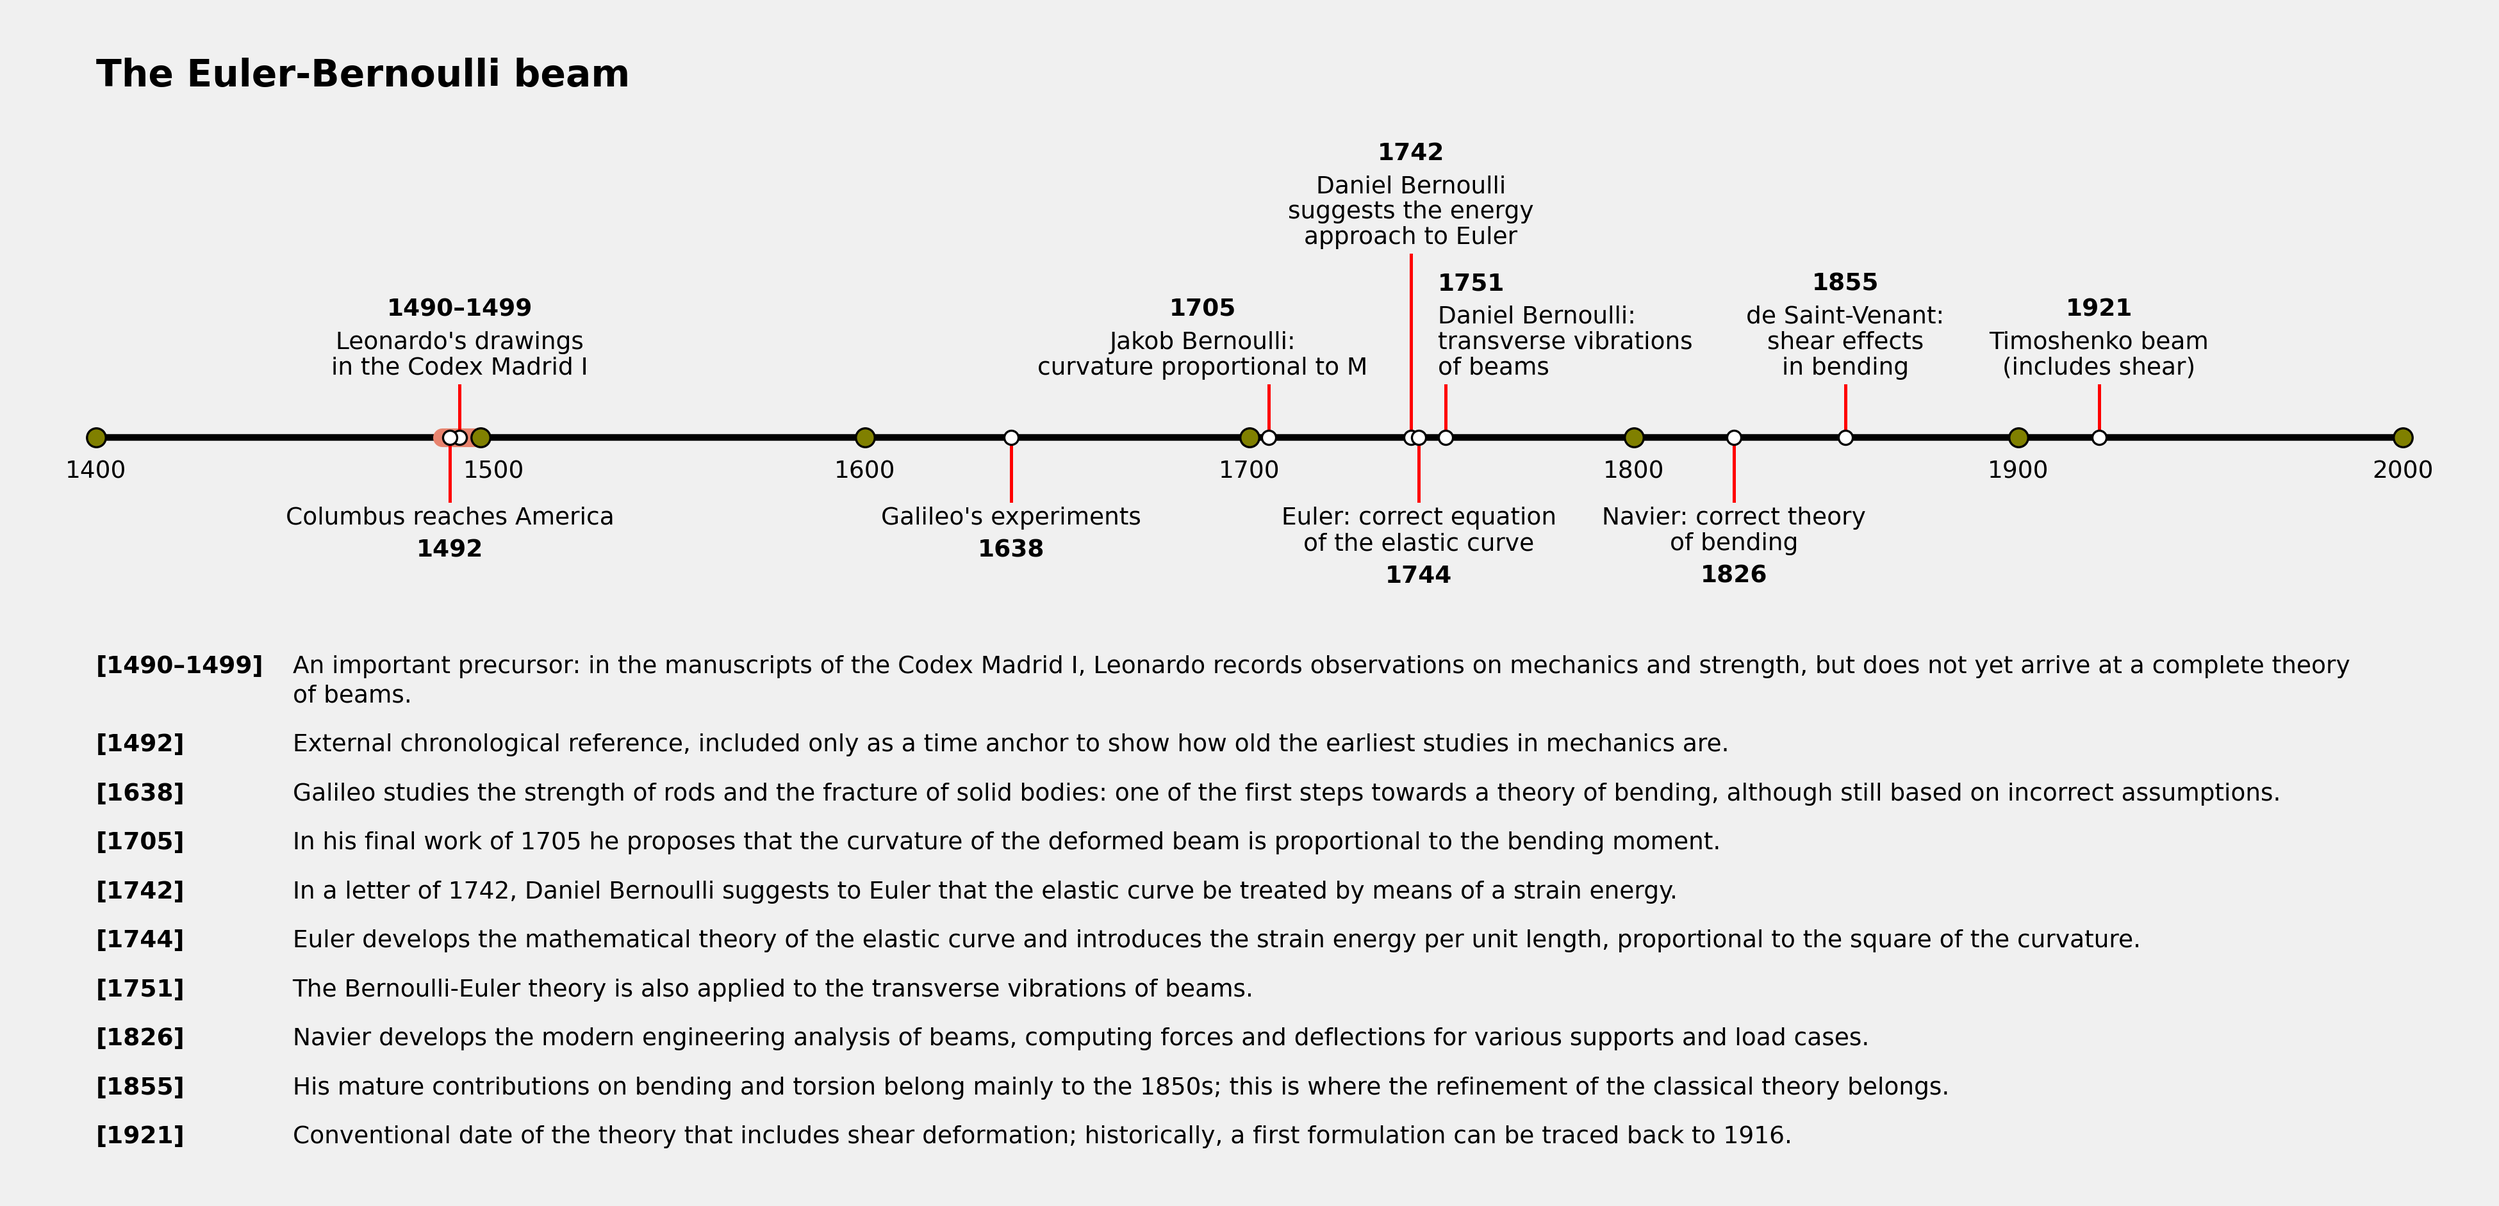
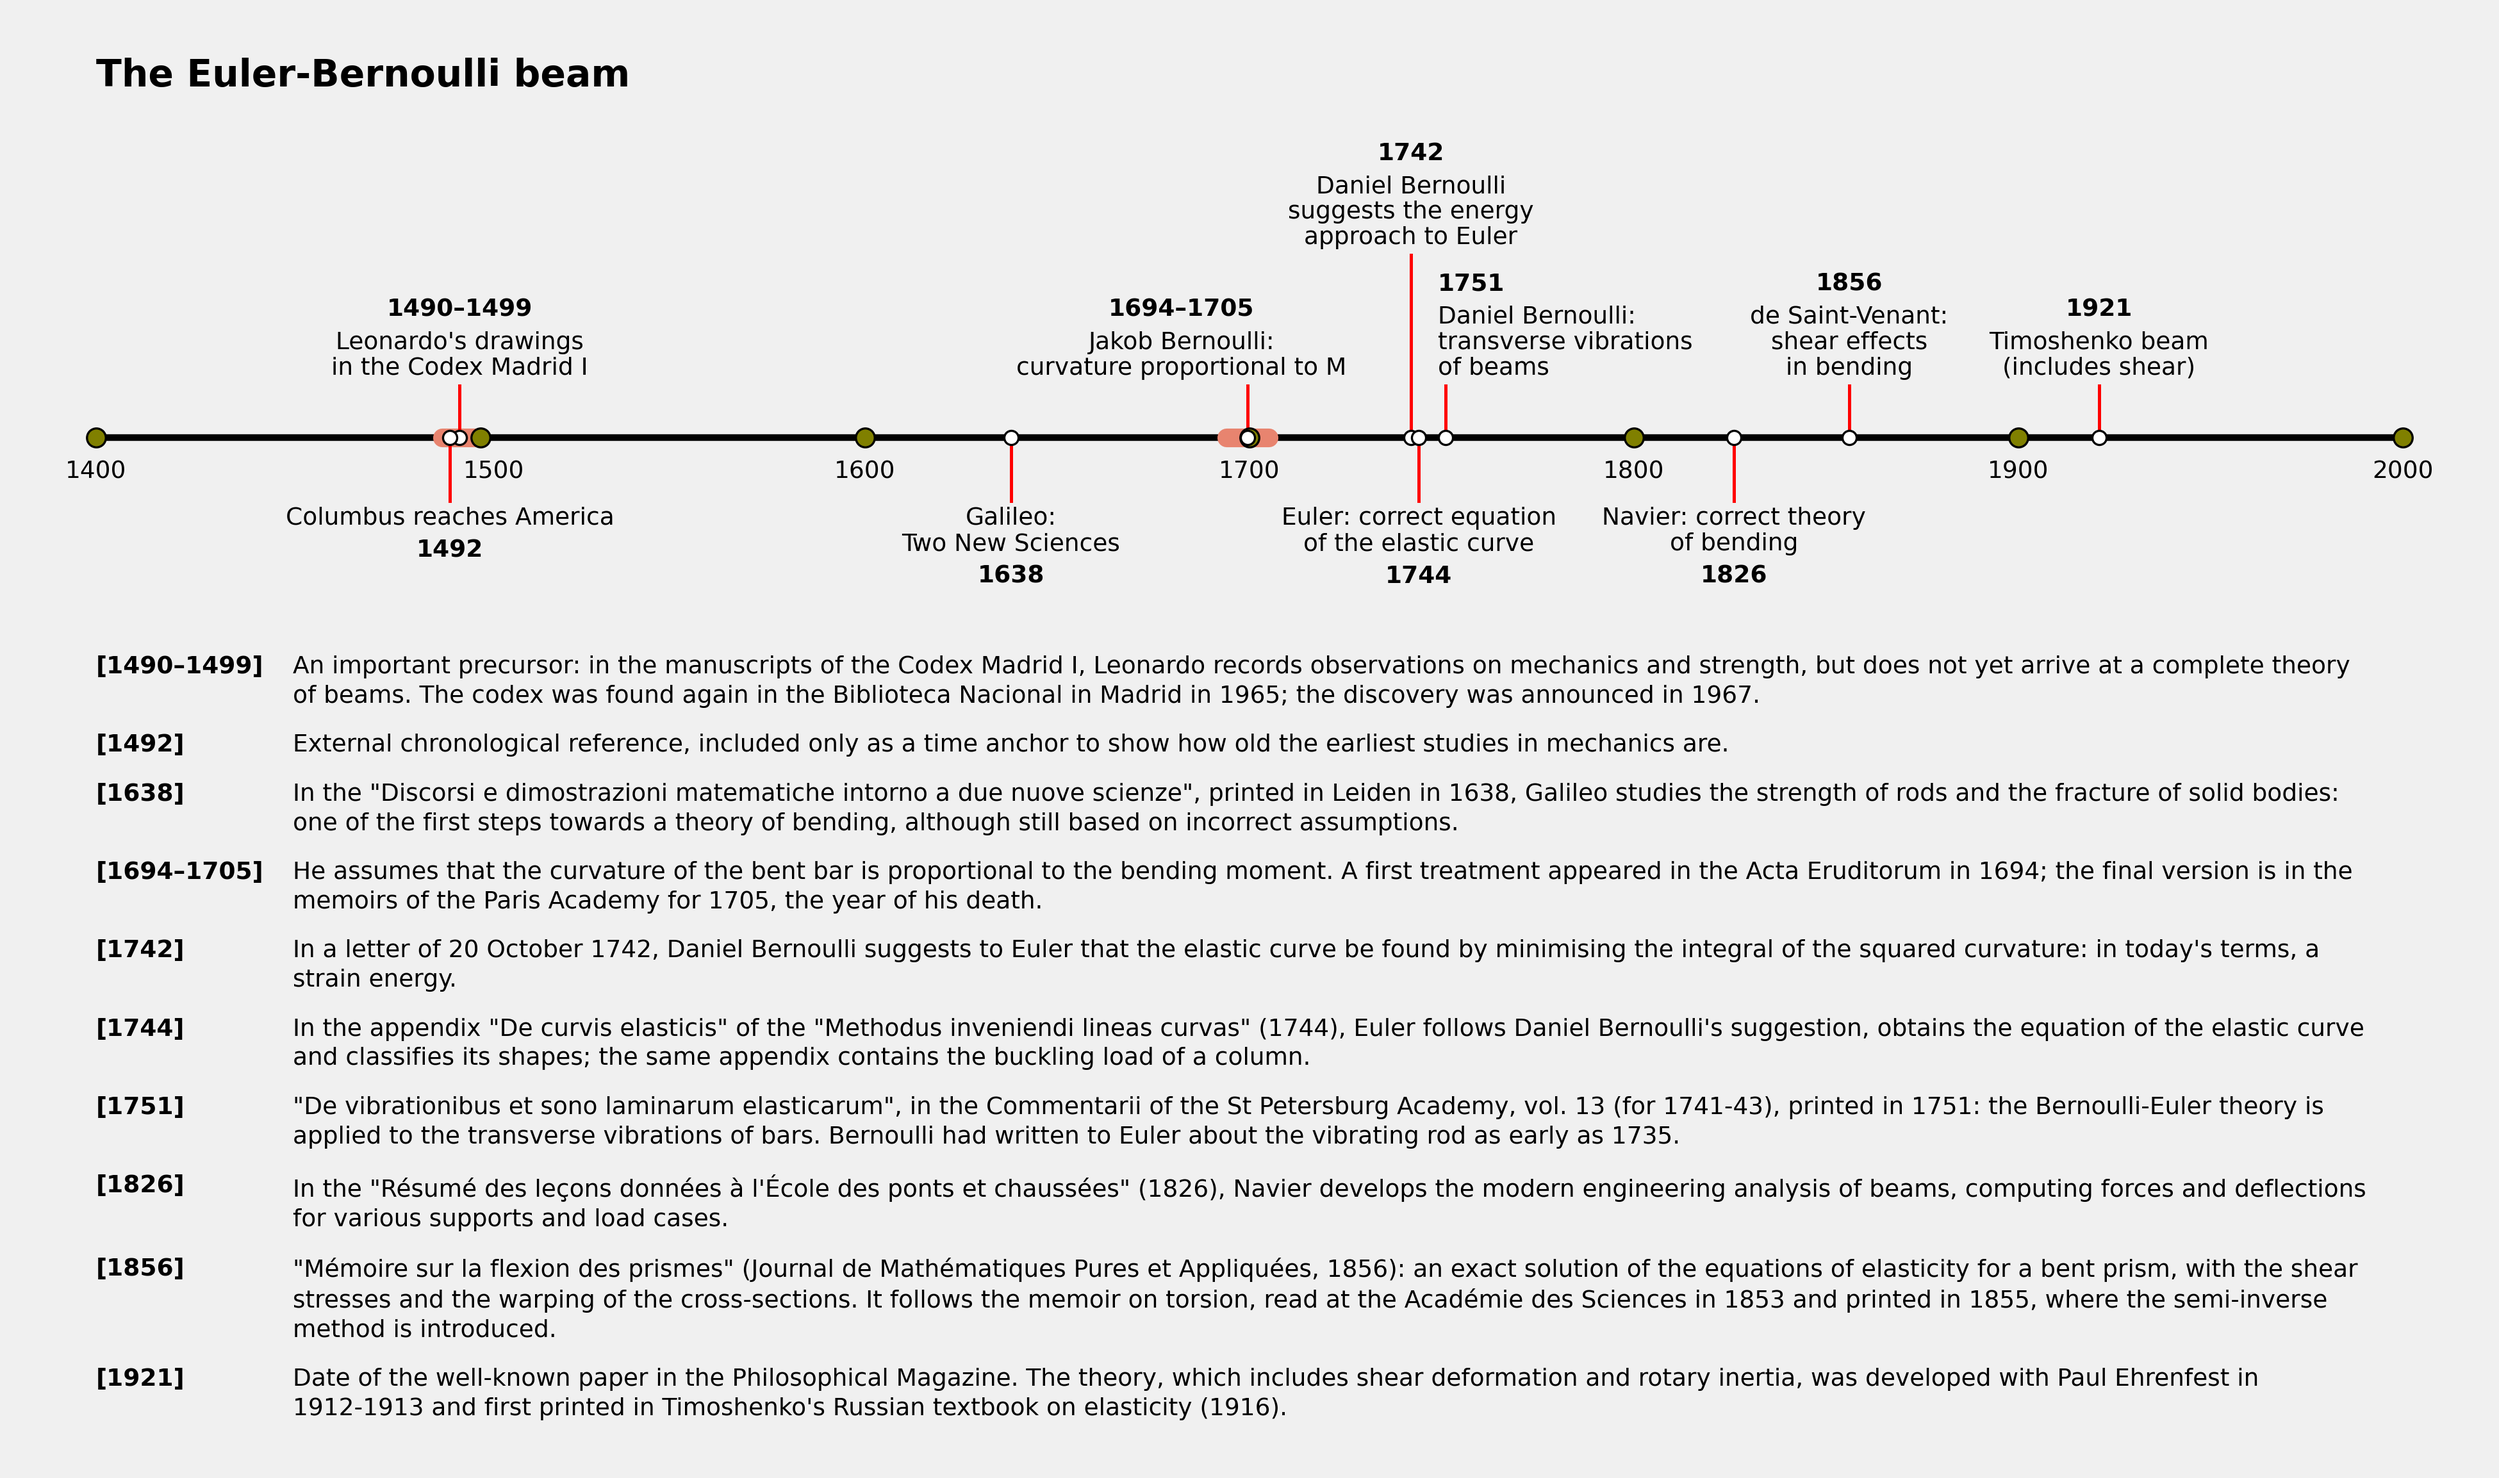
v2.0.1: correct dates and sources in the history-of-mechanics examples

diff --git a/timeline.py b/timeline.py
@@ -48,6 +48,8 @@ Angelo Simone (University of Padua). MIT License, see LICENSE.
     overlaps (bent connectors when needed), automatic figure height and axis
     ticks, date ranges, merged same-date events, vertical orientation, uniform
     note spacing, layout self-check, command-line interface.
+  * v2.0.1 (26 November 2026): dates and sources of the history-of-mechanics
+    examples corrected; no change to the code.
 
 Requires Python >= 3.9 and matplotlib >= 3.5.
 """
@@ -74,7 +76,7 @@ from matplotlib import cbook  # noqa: E402
 from matplotlib.font_manager import FontProperties  # noqa: E402
 from matplotlib.patches import Rectangle  # noqa: E402
 
-__version__ = "2.0"
+__version__ = "2.0.1"
 
 # ─────────────────────────────────────────────────────────────────────────────
 # 1. CONFIGURATION

diff --git a/README.md b/README.md
@@ -149,9 +149,48 @@ Author: Angelo Simone (University of Padua).
   vertical orientation, uniform note spacing, layout self-check, and a
   command-line interface. Examples in English and Italian, plus the Leaning
   Tower showcase.
+- **v2.0.1** (26 November 2026): dates and sources of the two
+  history-of-mechanics examples checked and corrected; list of sources added.
+  No change to the code.
 
 Sources for the Leaning Tower example: Wikipedia, *Leaning Tower of Pisa*;
 PBS NOVA, *Interventions* (pbs.org/wgbh/nova/pisa).
+
+Sources for the two history-of-mechanics examples (dates checked in
+November 2026):
+
+- S. P. Timoshenko, *History of Strength of Materials*, McGraw-Hill, 1953
+  (Galileo, Jakob Bernoulli, Euler, Navier, Jourawski, Saint-Venant).
+- C. Truesdell, *The Rational Mechanics of Flexible or Elastic Bodies,
+  1638-1788*, in L. Euler, *Opera Omnia*, ser. 2, vol. 11, part 2, 1960
+  (Euler's modulus of extension of 1727: table of contents only).
+- Daniel Bernoulli to Euler, 20 October 1742, letter XXVI in P. H. Fuss,
+  *Correspondance mathématique et physique*, vol. 2, St Petersburg, 1843.
+- D. Bernoulli, "De vibrationibus et sono laminarum elasticarum",
+  *Commentarii Acad. Sci. Imp. Petropolitanae* 13 (1741-43), printed 1751,
+  pp. 105-120.
+- A. Barré de Saint-Venant, "Mémoire sur la torsion des prismes", *Mémoires
+  présentés par divers savants à l'Académie des Sciences* 14 (1855),
+  pp. 233-560 (read on 13 June 1853); "Mémoire sur la flexion des prismes",
+  *Journal de Mathématiques Pures et Appliquées*, ser. 2, 1 (1856), pp. 89-189.
+- I. Elishakoff, "Who developed the so-called Timoshenko beam theory?",
+  *Mathematics and Mechanics of Solids* 25 (2020), pp. 97-116.
+- S. P. Timoshenko, "On the correction for shear of the differential equation
+  for transverse vibrations of prismatic bars", *Philosophical Magazine* 41
+  (1921), pp. 744-746.
+- A. N. Beal, "Thomas Young and the theory of structures 1807-2007",
+  *The Structural Engineer*, 2007 (Young's definition; Navier's of 1826).
+- W. Thomson, "Elasticity", *Encyclopaedia Britannica*, 9th ed., 1878
+  (text read in the reprint in his *Mathematical and Physical Papers*, vol. 3).
+- *Oxford English Dictionary*, entry "Young's modulus, n." (read on
+  26 November 2026): earliest quotation 1857, J. P. Nichol, *A Cyclopaedia of
+  the Physical Sciences*, p. 226; second quotation 1865, *Proceedings of the
+  Royal Society* 14, p. 296 (W. Thomson, "On the elasticity and viscosity of
+  metals", pp. 289-297).
+- Wikipedia, *Codex Madrid (Leonardo)*, *Giordano Riccati*.
+
+Still to check on a primary source: Riccati's 1782 memoir (bibliographic data
+taken from Wikipedia).
 
 ## License
 
